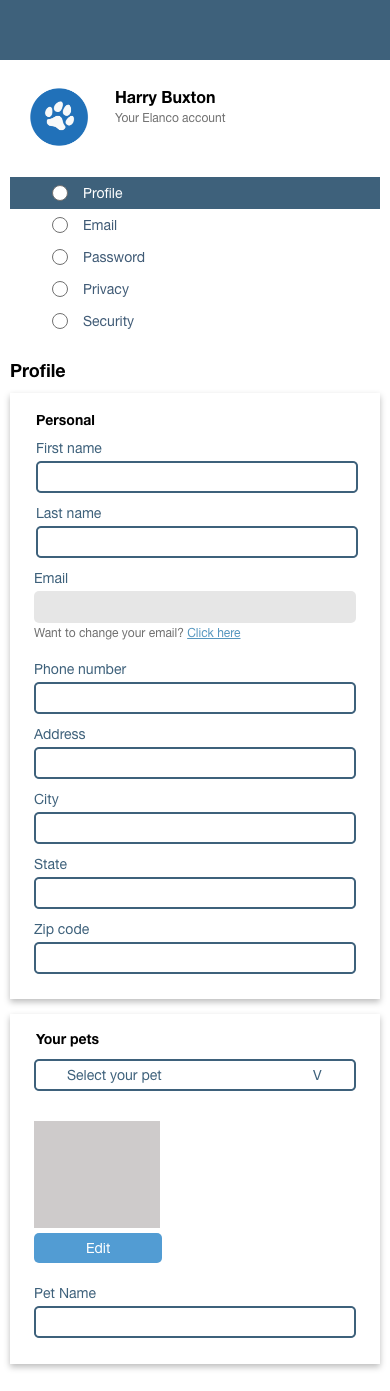
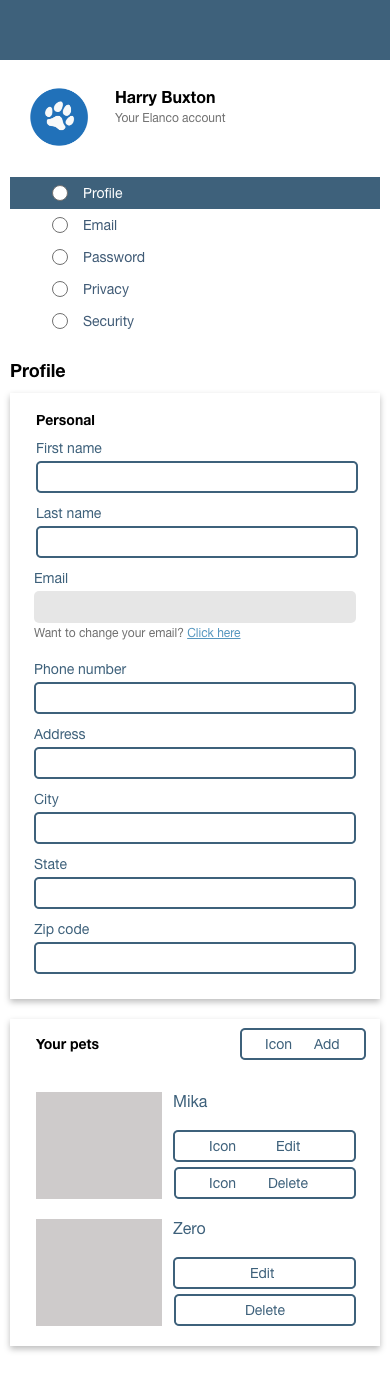
Display pet on account page
Adds a section which displays pet information linked to a users account.

diff --git a/ElancoUI/wwwroot/css/main.css b/ElancoUI/wwwroot/css/main.css
@@ -6,6 +6,7 @@
     --info-card-text: #6c757d;
     --info-danger: #dc3545;
     --info-success: #e6f7e8;
+    --info-danger-light: #f8d7da;
 }
 
 *, ::before, ::after {
@@ -313,11 +314,70 @@ body {
     grid-template-columns: 1fr;
     gap: 20px;
     background-color: var(--seconary-white);
-    box-shadow: 0 4px 8px 0 rgba(0, 0, 0, 0.1), 0 6px 20px 0 rgba(0, 0, 0, 0.01);
 }
 
 .account-card {
     padding: 20px;
+    box-shadow: 0 4px 8px 0 rgba(0, 0, 0, 0.1), 0 6px 20px 0 rgba(0, 0, 0, 0.01);
+}
+
+.account-card-header {
+    display: flex;
+    justify-content: space-between;
+    align-items: center;
+}
+
+.account-card-header-cta {
+    display: grid;
+    grid-template-columns: 25px 1fr;
+    justify-items: center;
+    align-items: center;
+    border-radius: 5px;
+    padding: 10px 15px;
+    font-size: 14px;
+    background-color: var(--primary-light-blue);
+    color: var(--seconary-white);
+    cursor: pointer;
+}
+
+.account-pets-container {
+    margin: 20px 0;
+    display: grid;
+    grid-template-columns: 1fr;
+    grid-auto-rows: 1fr;
+    gap: 10px;
+}
+
+.account-pet {
+    display: grid;
+    grid-template-columns: 140px 1fr;
+    grid-auto-rows: 1fr;
+    gap: 10px;
+}
+
+.account-pet-details {
+    display: grid;
+    grid-template-columns: 1fr;
+    gap: 5px;
+}
+
+.account-pet-details-cta {
+    display: grid;
+    grid-template-columns: 25px 1fr;
+    grid-auto-rows: 1fr;
+    align-items: center;
+    justify-content: center;
+    font-size: 14px;
+    background-color: var(--info-card);
+    color: var(--info-card-text);
+    padding: 10px 30px;
+    gap: 10px;
+    border-radius: 5px;
+    cursor: pointer;
+}
+
+.account-pet-details h5 {
+    font-size: 16px;
 }
 
 .account-card-field p {

diff --git a/ElancoUI/Helpers/AccountHelper.cs b/ElancoUI/Helpers/AccountHelper.cs
@@ -23,7 +23,7 @@ namespace ElancoUI.Helpers
                 account.City = DoesContainElements<Address>(dbAccount.Addresses) ? dbAccount.Addresses.Single().City : null;
                 account.State = DoesContainElements<Address>(dbAccount.Addresses) ? dbAccount.Addresses.Single().State : null;
                 account.ZipCode = DoesContainElements<Address>(dbAccount.Addresses) ? dbAccount.Addresses.Single().ZipCode : null;
-                account.PetName = DoesContainElements<Pet>(dbAccount.Pets) ? dbAccount.Pets.Single().Name : null;
+                account.Pets = dbAccount.Pets;
             }
             catch (Exception)
             {

diff --git a/ElancoUI/Models/AccountModel.cs b/ElancoUI/Models/AccountModel.cs
@@ -1,4 +1,5 @@
-using System.ComponentModel.DataAnnotations;
+using ElancoUI.Models.DbContextModels;
+using System.ComponentModel.DataAnnotations;
 
 namespace ElancoUI.Models
 {
@@ -24,7 +25,6 @@ namespace ElancoUI.Models
         [MaxLength(10)]
         public string ZipCode { get; set; }
 
-        [MaxLength(50)]
-        public string PetName { get; set; }
+        public List<Pet> Pets { get; set; } = new List<Pet>();
     }
 }

diff --git a/ElancoUI/Program.cs b/ElancoUI/Program.cs
@@ -27,6 +27,8 @@ builder.Services.AddRazorPages();
 builder.Services.AddServerSideBlazor();
 builder.Services.AddScoped<AuthenticationStateProvider, RevalidatingIdentityAuthenticationStateProvider<IdentityUser>>();
 
+Console.WriteLine(Guid.NewGuid().ToString());
+
 // Azure Form Recognizer 
 builder.Services.AddSingleton(new FormRecognizerClient(
     new Uri(builder.Configuration["Endpoint"]),
